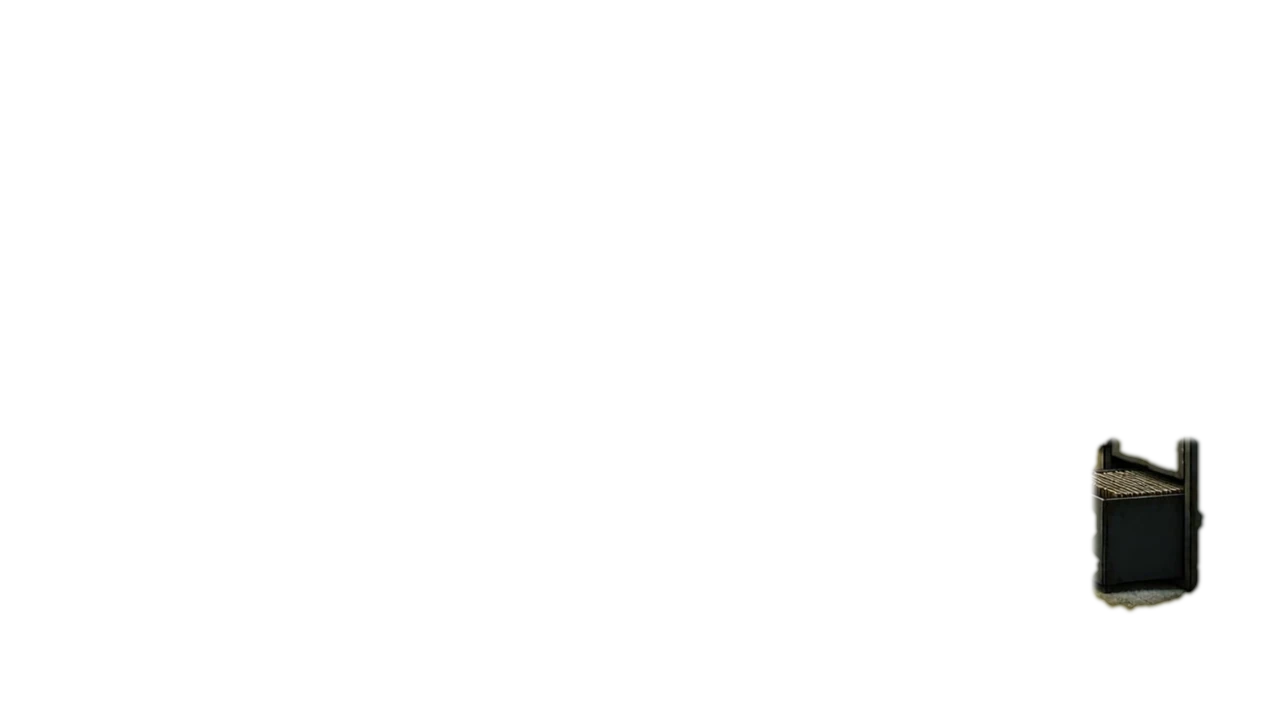
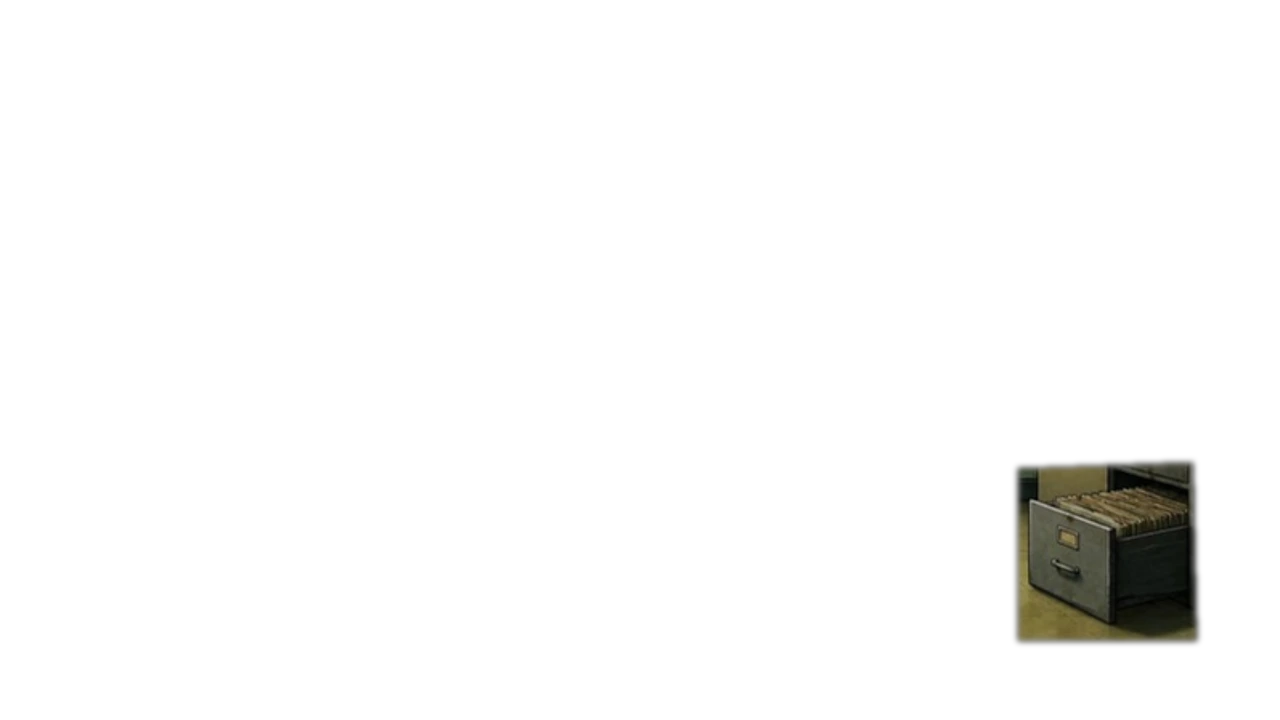
Art: longer-flirt pair frames (arm, chest, guitar lesson), visiting officer and guitarist, Alan's attic room, the two upstairs scenes with full-screen paintings; painted wall telephone; finished open drawer at the Judiciária; the bell tongue on the press in the epilogue
Claude-Session: https://claude.ai/code/session_01PQoWp2SmC5amp6FGRiZGFy

Changed region(s): [[0.7812, 0.6111, 0.9375, 0.9167]]

diff --git a/js/story/ch1.js b/js/story/ch1.js
@@ -251,7 +251,7 @@
       { x: 915, y: 265, rgb: '205,220,238', power: 0.28, reach: 800, rim: 0.6, shadow: 0.45, floor: [915, 500], height: 600 },
     ],
     entries: { default: [160, 655, 'e'], map: [160, 655, 'e'] },
-    layers: [{ img: 'police_drawer', x: 0, y: 0, when: () => F().drawer_open, full: true }],
+    layers: [{ img: 'police_drawer', x: 0, y: 0, when: () => F().drawer_open, full: true }, { img: 'police_phone', x: 0, y: 0, full: true, when: () => F().ch <= 2 }],
     // Rui and the officer stand behind the desk: the desk and what's on it are traced
     occluders: [{ y: 600, polys: [
       [[320, 397], [945, 397], [945, 426], [930, 428], [930, 606], [336, 606], [336, 428], [320, 426]],
@@ -450,7 +450,7 @@
       // (the two of them as one painted pair, anchored on their middle)
       const home = p.x;
       if (cop) { await p.walkTo(cop.x + 105, cop.y); p.dir = 'w'; }
-      const pairUp = k => { if (!cop || !window.SPRITES[k]) return false; cop.visible = false; p.x = cop.x + 52; p.pose = k; return true; };
+      const pairUp = k => { if (!cop || !window.SPRITES[k]) return false; cop.visible = false; p.x = cop.x + 52; p.dir = 'e'; p.pose = k; return true; };
       const unpair = () => { if (cop) cop.visible = true; p.x = cop ? cop.x + 105 : home; p.pose = null; };
       if (!pairUp('pair_cop_arm')) { p.pose = 'flirt'; copPose('npc_phone_proud'); }
       await T(500); await say('alan_flirt_cop_3', 'phone_flirt_3');
@@ -483,9 +483,10 @@
       // the lesson: his hand over Alan's on the neck of the guitar
       const home = p.x;
       if (gt && window.SPRITES.pair_guitar_lesson) {
-        await p.walkTo(gt.x + 110, gt.y); gt.visible = false; p.x = gt.x + 40; p.pose = 'pair_guitar_lesson';
+        await p.walkTo(gt.x + 110, gt.y + 30);
+        const py = p.y; gt.visible = false; p.x = gt.x + 40; p.y = gt.y + 16; p.h = gt.height(); p.dir = 'e'; p.pose = 'pair_guitar_lesson'; // at his seated height, just in front of the courting couple
         await say('guitar_flirt_4', 'alan_flirt_guitar_4');
-        p.pose = null; gt.visible = true; p.x = gt.x + 110; p.dir = 'w';
+        p.pose = null; p.h = null; p.y = py; gt.visible = true; p.x = gt.x + 110; p.dir = 'w';
       } else await say('guitar_flirt_4', 'alan_flirt_guitar_4');
       gPose('npc_guitar_serenade'); p.pose = 'swoon'; await say('alan_flirt_guitar_2');
       p.pose = null; gPose('npc_guitar_wink'); await say('guitar_flirt_2');
@@ -496,17 +497,9 @@
   // the station's wall telephone beside the door (Teixeira has the handset), its
   // coiled cord dropping behind him
   S.wallPhone = function (g, x, y) {
+    // the telephone itself is painted (layer police_phone); only its cord is drawn,
+    // coiling down from the base to the handset in Teixeira's hand
     g.save(); g.translate(x, y);
-    g.fillStyle = 'rgba(0,0,0,0.28)'; g.beginPath(); g.roundRect(-13, 3, 30, 54, 5); g.fill();
-    const body = g.createLinearGradient(-15, 0, 15, 0); body.addColorStop(0, '#ece2c6'); body.addColorStop(0.6, '#d2c6a4'); body.addColorStop(1, '#a89a78');
-    g.fillStyle = body; g.strokeStyle = 'rgba(40,30,20,0.85)'; g.lineWidth = 1.5;
-    g.beginPath(); g.roundRect(-15, 0, 30, 52, 5); g.fill(); g.stroke();
-    // empty cradle hook and the dial
-    g.fillStyle = '#8a7e62'; g.fillRect(-11, 3, 22, 5); g.strokeRect(-11, 3, 22, 5);
-    g.fillStyle = '#f4ecd6'; g.beginPath(); g.arc(0, 26, 10, 0, 7); g.fill(); g.stroke();
-    g.fillStyle = '#4a4232'; for (let k = 0; k < 10; k++) { const a = -2.2 + k * 0.5; g.beginPath(); g.arc(Math.cos(a) * 6.5, 26 + Math.sin(a) * 6.5, 1.3, 0, 7); g.fill(); }
-    g.beginPath(); g.arc(0, 26, 2.5, 0, 7); g.fill();
-    g.strokeStyle = 'rgba(255,255,255,0.45)'; g.lineWidth = 1.2; g.beginPath(); g.moveTo(-12, 8); g.lineTo(-12, 46); g.stroke();
     // coiled cord: loops along a sagging curve down behind the officer
     g.strokeStyle = '#2a2620'; g.lineWidth = 1.6; g.beginPath();
     const [x0, y0, x1, y1] = [0, 52, 44, 190];

diff --git a/js/story/visits.js b/js/story/visits.js
@@ -14,17 +14,17 @@
     { id: 'npc_phone', ch: 'cop_visit', x, y, dir, name: 'Officer Teixeira', when: () => visitor === 'cop', look: 'alan_npc_phone' },
     { id: 'npc_guitar', ch: 'guitar_visit', x, y, dir, name: 'Duarte', when: () => visitor === 'guitar', look: 'alan_npc_guitar' },
   ];
-  ROOMS.shop.npcs = (ROOMS.shop.npcs || []).concat(visitorDefs(930, 604, 'w'));
+  ROOMS.shop.npcs = (ROOMS.shop.npcs || []).concat(visitorDefs(960, 606, 'w'));
 
   // ---------------------------------------------------------------- Alan's room, upstairs
   ROOMS.bedroom = {
     name: "Alan's room", bg: 'bedroom', noSave: true, music: null, ambience: 'shop', floor: 'wood',
-    walk: [[180, 560], [1060, 560], [1200, 716], [80, 716]],
-    scale: [560, 380, 716, 470],
+    walk: [[330, 500], [860, 500], [1010, 716], [120, 716]], // between the bookshelf and the bed
+    scale: [490, 400, 716, 500],
     light: { ambient: 'rgb(205,180,150)', base: 0.8, rim: 'rgba(255,210,160,0.25)', rimSide: 1 },
-    lights: [{ x: 980, y: 380, rgb: '255,200,130', kind: 'gas', seed: 5, glow: 90, ga: 0.25, power: 0.5, reach: 800, floor: [980, 600], height: 300 }],
+    lights: [{ x: 780, y: 268, rgb: '255,200,130', kind: 'gas', seed: 5, glow: 90, ga: 0.3, power: 0.55, reach: 800, floor: [780, 480], height: 260 }],
     entries: { default: [700, 640, 'w'] },
-    npcs: visitorDefs(430, 630, 'e'),
+    npcs: visitorDefs(440, 640, 'e'),
     hotspots: [],
   };
 
@@ -48,6 +48,7 @@
     G.autosave();
   }
   async function arrive(who) {
+    await G.player.walkTo(760, 612); // in from the street, out of the doorway
     sfx('door'); await T(400);
     visitor = who; G.refreshNpcs();
     G.player.dir = 'e';
@@ -61,11 +62,11 @@
       await say('phone_visit_1', 'ines_visit_cop', 'phone_visit_2');
       p.pose = 'fluster'; await say('alan_visit_cop'); p.pose = null;
       await say('ines_visit_after');
-      const v = await upstairs('cop', [640, 640, 'w']);
+      const v = await upstairs('cop', [660, 645, 'w']);
       await say('phone_room_1', 'alan_room_cop_1');
       // Alan takes the lead: against the bookshelf, the shirt, the neck
-      const home = p.x; if (v) { p.x = (v.x + p.x) / 2; v.visible = false; }
-      sfx('sheet_slap', 0.2); await pair('pair_cop_shelf', 2400);
+      const home = p.x; if (v) { p.x = 450; v.visible = false; } // the painted shelf in the frame lines up with the room's own
+      p.dir = 'w'; sfx('sheet_slap', 0.2); await pair('pair_cop_shelf', 2400);
       await say('phone_room_2', 'alan_room_cop_2');
       await pair('pair_cop_neck', 2600);
       await G.showStill('still_cop_shelf', () => G.say('narr_room_cop', { offscreen: true }), { zoom: [1.02, 1.14], pan: [[0.5, 0.45], [0.45, 0.4]], keep: true });
@@ -85,11 +86,11 @@
       await say('guitar_visit_1', 'ines_visit_guitar', 'guitar_visit_2');
       p.pose = 'fluster'; await say('alan_visit_guitar'); p.pose = null;
       await say('ines_visit_after');
-      const v = await upstairs('guitar', [600, 640, 'w']);
+      const v = await upstairs('guitar', [660, 645, 'w']);
       await say('guitar_room_1', 'alan_room_guitar_1');
       // the same energy from both sides: shirts off together, and a race for the bed
       const home = p.x; if (v) { p.x = (v.x + p.x) / 2; v.visible = false; }
-      sfx('sheet_slap', 0.25); await pair('pair_guitar_undress', 2600);
+      p.dir = 'w'; sfx('sheet_slap', 0.25); await pair('pair_guitar_undress', 2600);
       await say('guitar_room_2');
       await G.showStill('still_guitar_bed', () => G.say('narr_room_guitar', { offscreen: true }), { zoom: [1.0, 1.12], pan: [[0.55, 0.5], [0.5, 0.45]], keep: true });
       await G.fade(true); G.endStill();

diff --git a/js/sprites.js b/js/sprites.js
@@ -534,6 +534,38 @@ window.SPRITES = {
   "fy": 664.1,
   "top": 3.0
  },
+ "cop_visit": {
+  "w": 218,
+  "hh": 726,
+  "h": 720,
+  "ax": 91.3,
+  "fy": 722.9,
+  "top": 2.9
+ },
+ "cop_visit_talk": {
+  "w": 297,
+  "hh": 726,
+  "h": 720,
+  "ax": 126.6,
+  "fy": 722.9,
+  "top": 2.9
+ },
+ "guitar_visit": {
+  "w": 264,
+  "hh": 726,
+  "h": 720,
+  "ax": 111.6,
+  "fy": 722.9,
+  "top": 2.9
+ },
+ "guitar_visit_talk": {
+  "w": 330,
+  "hh": 726,
+  "h": 720,
+  "ax": 106.2,
+  "fy": 722.9,
+  "top": 2.9
+ },
  "ines": {
   "w": 180,
   "hh": 727,
@@ -850,6 +882,22 @@ window.SPRITES = {
   "fy": 723.0,
   "top": 3.0
  },
+ "npc_guitar_lean": {
+  "w": 356,
+  "hh": 726,
+  "h": 720,
+  "ax": 147.4,
+  "fy": 722.9,
+  "top": 2.9
+ },
+ "npc_guitar_serenade": {
+  "w": 342,
+  "hh": 724,
+  "h": 720,
+  "ax": 149.9,
+  "fy": 722.9,
+  "top": 2.9
+ },
  "npc_guitar_wink": {
   "w": 376,
   "hh": 726,
@@ -1062,6 +1110,54 @@ window.SPRITES = {
   "ax": 156.0,
   "fy": 724.2,
   "top": 4.2
+ },
+ "pair_cop_arm": {
+  "w": 390,
+  "hh": 726,
+  "h": 720,
+  "ax": 180.0,
+  "fy": 722.9,
+  "top": 2.9
+ },
+ "pair_cop_chest": {
+  "w": 391,
+  "hh": 726,
+  "h": 720,
+  "ax": 174.2,
+  "fy": 723.0,
+  "top": 3.0
+ },
+ "pair_cop_neck": {
+  "w": 384,
+  "hh": 727,
+  "h": 720,
+  "ax": 231.4,
+  "fy": 723.1,
+  "top": 3.1
+ },
+ "pair_cop_shelf": {
+  "w": 355,
+  "hh": 726,
+  "h": 720,
+  "ax": 190.9,
+  "fy": 723.0,
+  "top": 3.0
+ },
+ "pair_guitar_lesson": {
+  "w": 469,
+  "hh": 727,
+  "h": 720,
+  "ax": 255.5,
+  "fy": 723.1,
+  "top": 3.1
+ },
+ "pair_guitar_undress": {
+  "w": 504,
+  "hh": 726,
+  "h": 720,
+  "ax": 253.0,
+  "fy": 723.0,
+  "top": 3.0
  },
  "pair_kiss": {
   "w": 340,
